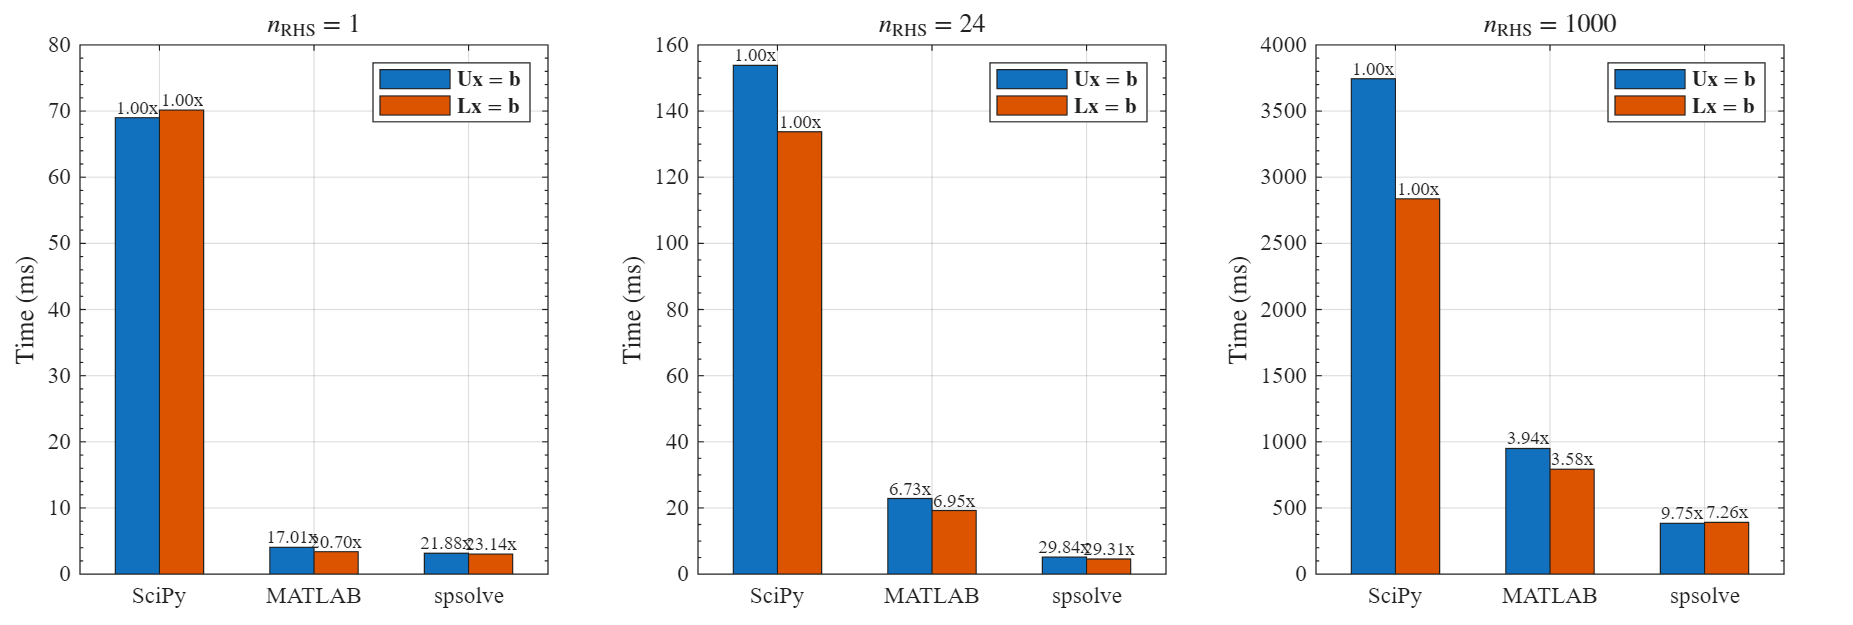
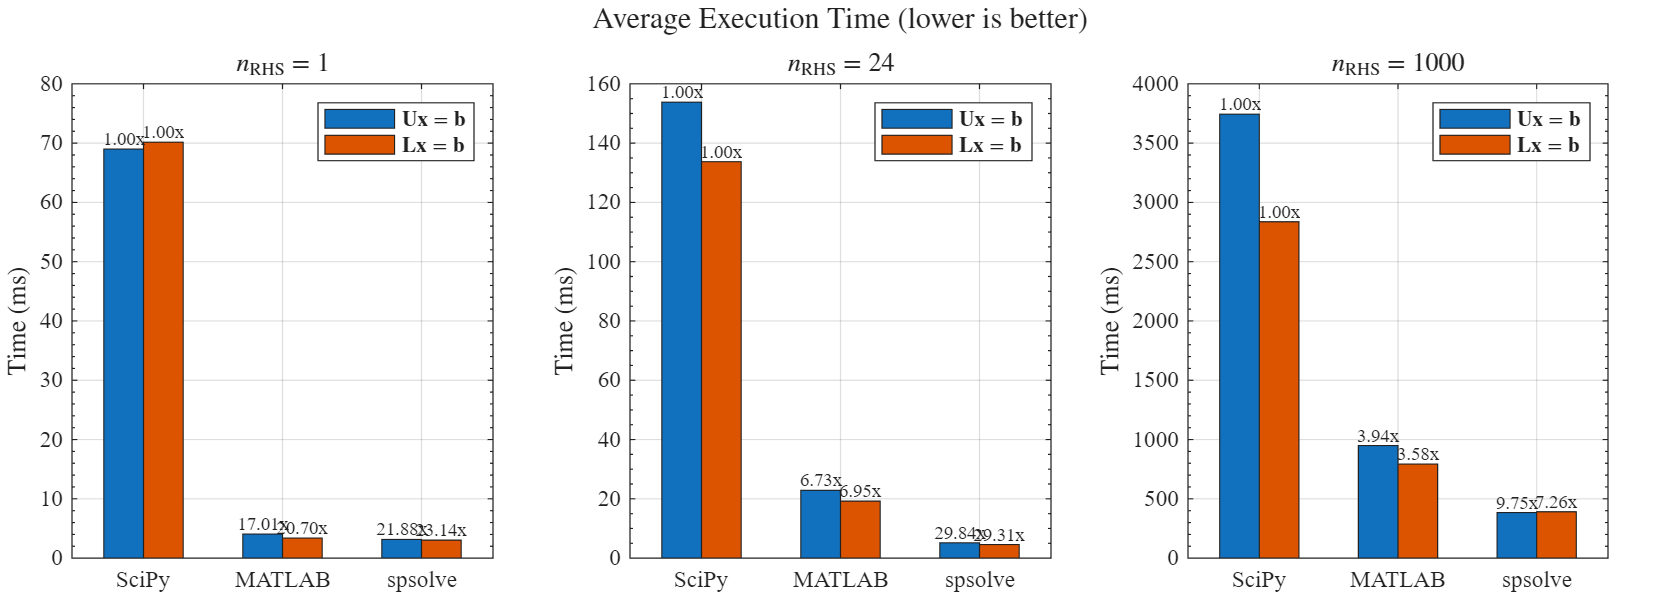
add title

diff --git a/benchmarks/simple/plot_bar.m b/benchmarks/simple/plot_bar.m
@@ -23,7 +23,7 @@ nexttile; tlplot_bar(data1, "$n_\mathrm{RHS}=1$");
 nexttile; tlplot_bar(data24, "$n_\mathrm{RHS}=24$");
 nexttile; tlplot_bar(data1000, "$n_\mathrm{RHS}=1000$");
 
-% title(tl, "Solve $10000\times10000$, density$=10$\%", Interpreter="latex", FontName="Times");
+title(tl, "Average Execution Time (lower is better)", Interpreter="latex", FontName="Times");
 set(gcf, "Color", "white");
 
 function tlplot_bar(data, tstr)
